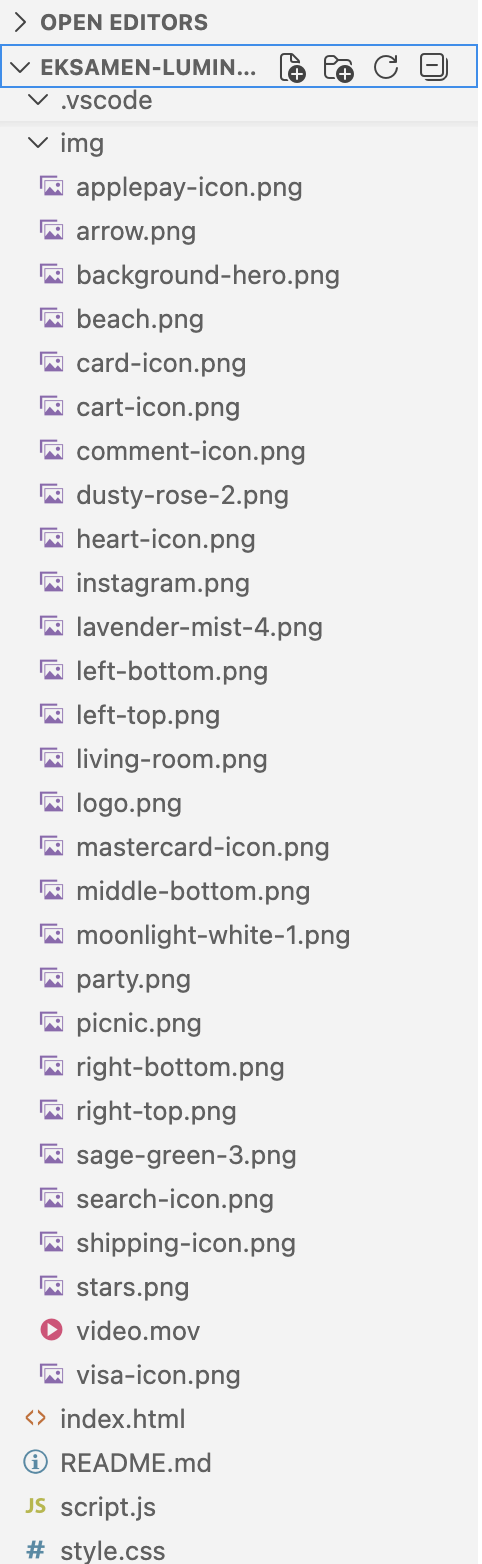
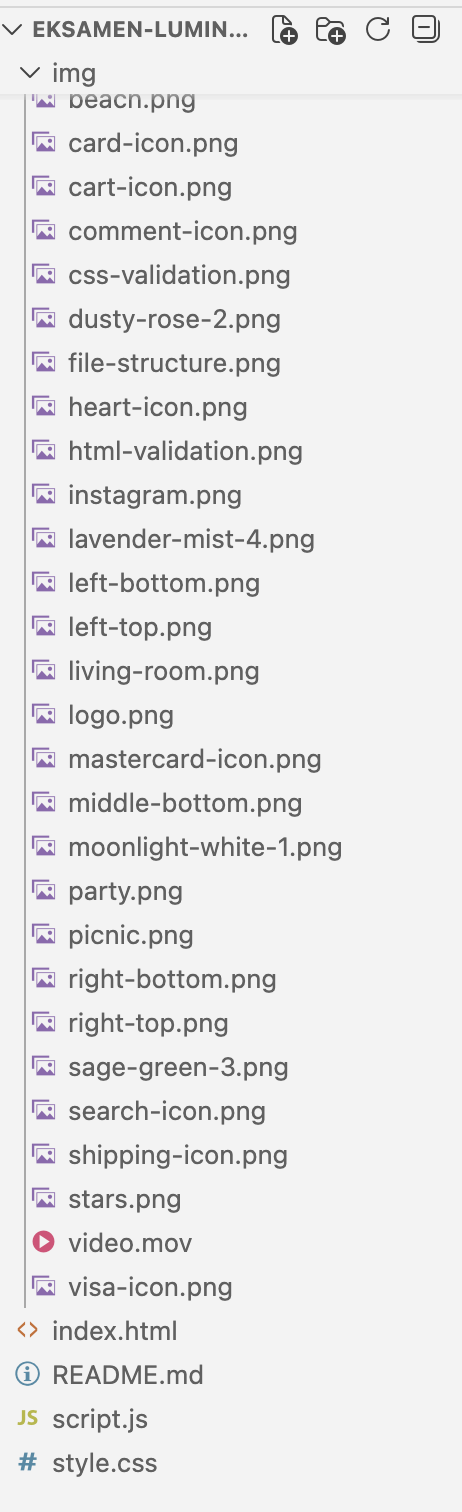
Rettet til igen, så README er helt korrekt

Changed region(s): [[0.0, 0.0, 0.9697, 1.0], [0.9697, 0.0311, 1.0, 0.0622]]

diff --git a/README.md b/README.md
@@ -35,7 +35,7 @@ Landingpagen giver brugeren mulighed for at:
 - Indeholder alle billeder og ikoner, som anvendes på landingpagen.
 - Eksempelvis produktbilleder, hero-billede, Trustpilot-ikoner og øvrige grafiske elementer.
 
-![file-structure](/img/file-structure.png.png)
+![file-structure](img/file-structure.png)
 
 
 ### Hvorfor har jeg valgt denne struktur?
@@ -58,7 +58,7 @@ Valideringen viste ingen fejl eller advarsler.
 Eventuelle fejl blev løbende rettet under udviklingen, indtil CSS-koden kunne valideres uden fejl.
 
 ### Dokumentation
-![css-validering](/img/css-validering.png)
+![css-validation](img/css-validation.png)
 
 ### Validering af HTML
 Jeg har valideret projektets HTML-fil:
@@ -75,7 +75,7 @@ Eventuelle fejl blev løbende rettet under udviklingen i Visual Studio Code, ind
 
 
 ### Dokumentation
-![html-validering](/img/html-validation.png)
+![html-validation](/img/html-validation.png)
 
 
 
